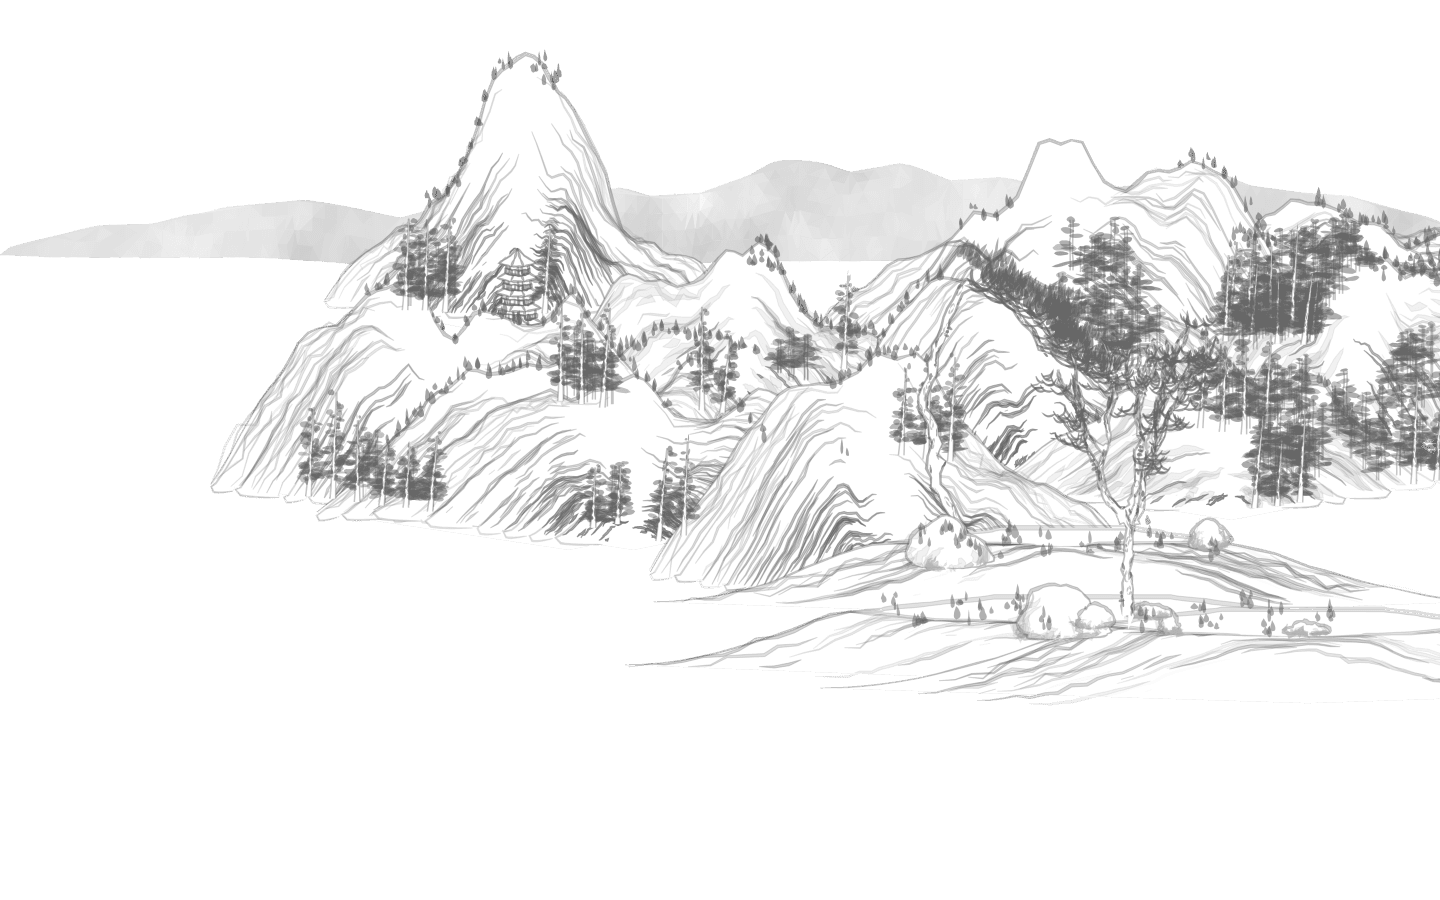
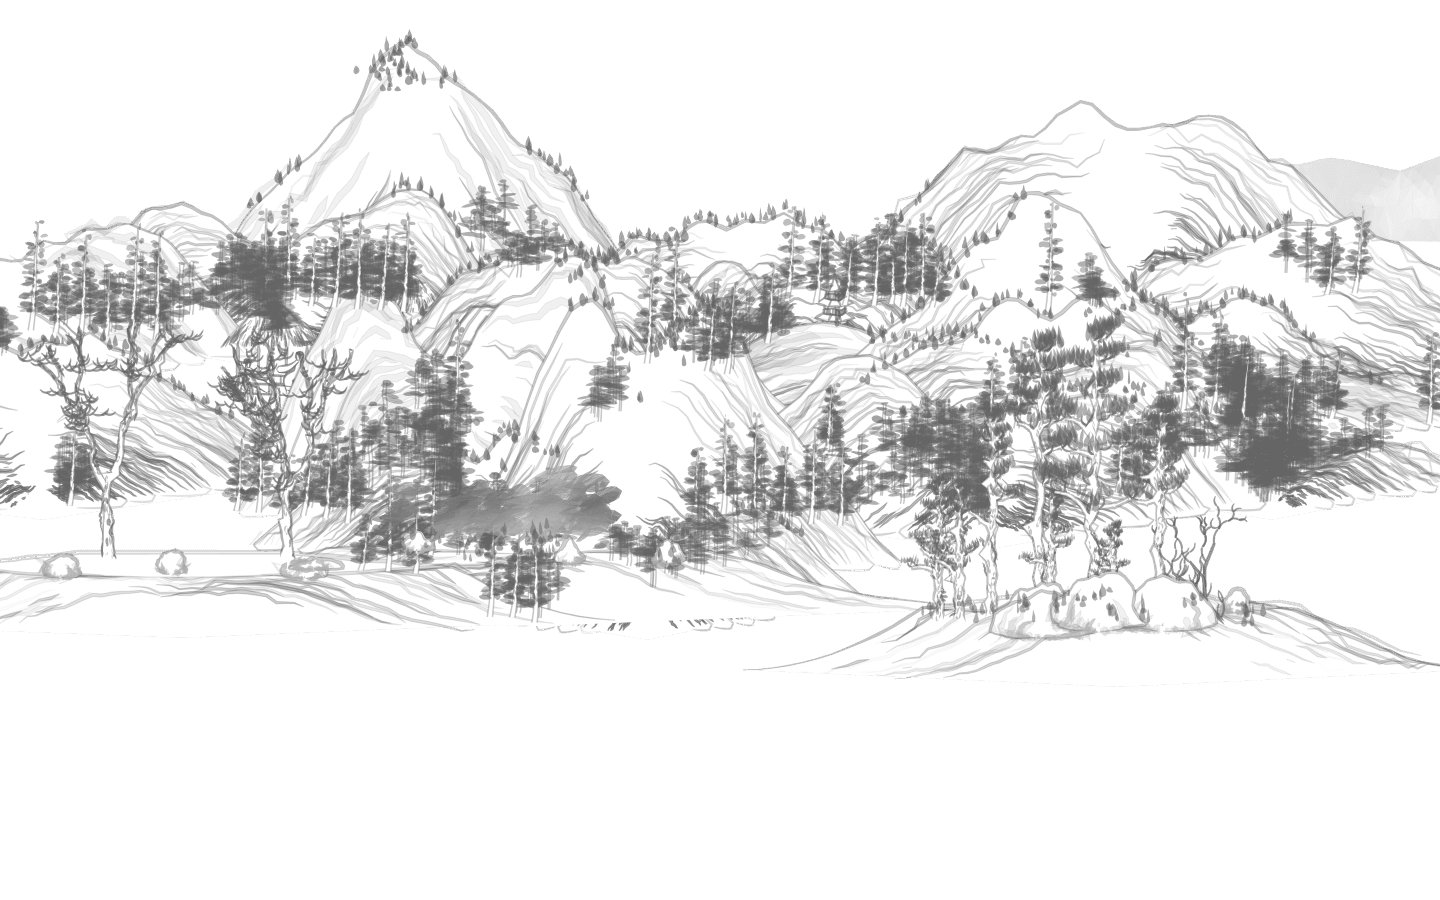
fix(xunhua): fix couplet extraction and punctuation-independent line search for XunhuaGame

diff --git a/src/components/games/XunhuaGame.tsx b/src/components/games/XunhuaGame.tsx
@@ -44,42 +44,68 @@ function textDistance(a: string, b: string): number {
   return d;
 }
 
-// 动态提取对句：遵循“句末标点+5/7字+逗号+5/7字+句末标点”的严格规则
+// 动态提取对句：支持单行对句、标点断句及偶数对仗子句
 function extractCouplets(poem: { name: string; author: string; content: string[] }): Couplet[] {
   const couplets: Couplet[] = [];
+  const key = `${poem.name}:${poem.author}`;
+
+  function addCouplet(l1Raw: string, l2Raw: string) {
+    const l1 = strip(l1Raw);
+    const l2 = strip(l2Raw);
+    if (l1.length !== l2.length) return;
+    if (l1.length !== 5 && l1.length !== 7) return;
+
+    const text = l1 + l2;
+    if (!couplets.some((c) => c.text === text)) {
+      couplets.push({
+        key,
+        poemTitle: poem.name,
+        poemAuthor: poem.author,
+        text,
+        cc: l1.length,
+        l1,
+        l2,
+      });
+    }
+  }
+
+  // 1. 按行提取：数据库中大量诗词每一行为一联对句（可能以句号或逗号结尾）
+  for (const line of poem.content) {
+    const textNoParens = line.replace(/[（(][^)）]*[)）]/g, "");
+    const parts = textNoParens.split(/[，、]/).filter(Boolean);
+    if (parts.length === 2) {
+      addCouplet(parts[0], parts[1]);
+    } else if (parts.length > 2 && parts.length % 2 === 0) {
+      for (let i = 0; i < parts.length; i += 2) {
+        addCouplet(parts[i], parts[i + 1]);
+      }
+    }
+  }
+
+  // 2. 按句号/分号/问号分段提取
   const fullText = poem.content.join("");
   const textNoParens = fullText.replace(/[（(][^)）]*[)）]/g, "");
   const segments = textNoParens.split(/[。？！；]+/);
 
-  const key = `${poem.name}:${poem.author}`;
-
   for (const seg of segments) {
     const s = seg.trim();
     if (!s) continue;
-    const parts = s.split(/[，、]/);
-    if (parts.length !== 2) continue;
-    const l1_raw = parts[0];
-    const l2_raw = parts[1];
-    const l1 = strip(l1_raw);
-    const l2 = strip(l2_raw);
-    
-    if (l1.length !== l2.length) continue;
-    if (l1.length !== 5 && l1.length !== 7) continue;
-
-    const text = l1 + l2;
-    // 去重
-    if (couplets.some(c => c.text === text)) continue;
-
-    couplets.push({
-      key,
-      poemTitle: poem.name,
-      poemAuthor: poem.author,
-      text,
-      cc: l1.length,
-      l1,
-      l2,
-    });
+    const parts = s.split(/[，、]/).filter(Boolean);
+    if (parts.length === 2) {
+      addCouplet(parts[0], parts[1]);
+    } else if (parts.length > 2 && parts.length % 2 === 0) {
+      for (let i = 0; i < parts.length; i += 2) {
+        addCouplet(parts[i], parts[i + 1]);
+      }
+    }
   }
+
+  // 3. 跨行偶数子句提取（针对单句占单行的排版格式）
+  const clauses = textNoParens.split(/[，、。？！；…\s]+/).filter(Boolean);
+  for (let i = 0; i < clauses.length - 1; i += 2) {
+    addCouplet(clauses[i], clauses[i + 1]);
+  }
+
   return couplets;
 }
 

diff --git a/src/workers/searchWorker.ts b/src/workers/searchWorker.ts
@@ -237,9 +237,11 @@ self.addEventListener('message', async (e) => {
             }
             
             if (mode === 'line') {
+                const cleanQuery = query.replace(/[^\u4e00-\u9fa5]/g, "");
                 for (const p of poems) {
                     for (const line of p.content) {
-                        if (line.includes(query)) {
+                        const cleanLine = line.replace(/[^\u4e00-\u9fa5]/g, "");
+                        if (line.includes(query) || (cleanQuery && cleanLine.includes(cleanQuery))) {
                             exactMatches.push({ ...p, id: generatePseudoId(p.t, p.a), matchedLine: line, score: 100 });
                             break;
                         }
@@ -321,6 +323,7 @@ self.addEventListener('message', async (e) => {
             }
             
             if (mode === 'general') {
+                const cleanQuery = query.replace(/[^\u4e00-\u9fa5]/g, "");
                 for (const p of poems) {
                     let matched = false;
                     if (p.t === query || p.a === query || p.t.includes(query) || p.a.includes(query)) {
@@ -330,7 +333,8 @@ self.addEventListener('message', async (e) => {
 
                     if (!matched) {
                         for (const line of p.content) {
-                            if (line.includes(query)) {
+                            const cleanLine = line.replace(/[^\u4e00-\u9fa5]/g, "");
+                            if (line.includes(query) || (cleanQuery && cleanLine.includes(cleanQuery))) {
                                 exactMatches.push({ ...p, id: generatePseudoId(p.t, p.a), matchedLine: line, score: 90 });
                                 matched = true;
                                 break;
